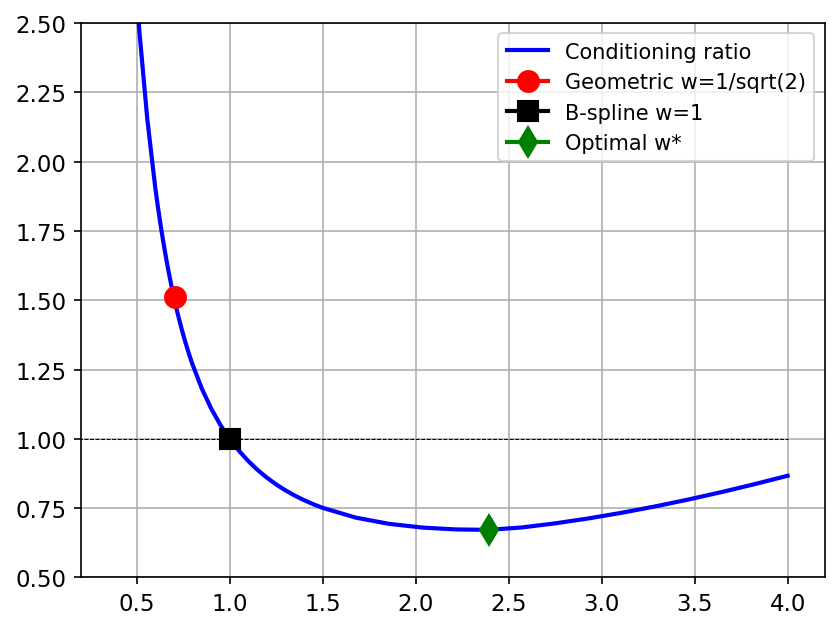
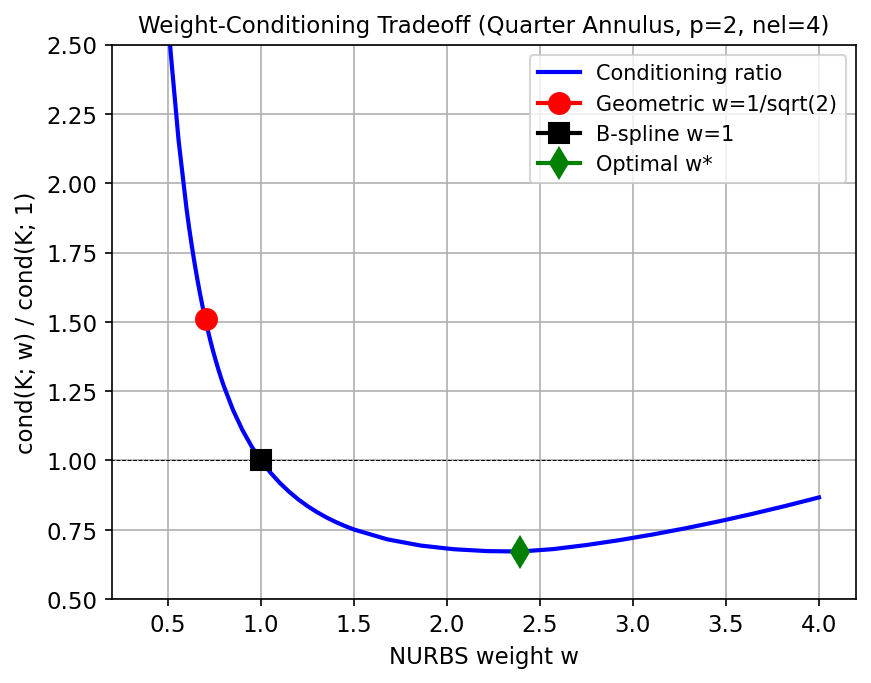
R82: Publication-quality thesis figures + plotting fixes
- title/xlabel/ylabel: Handle MATLAB keyword args (FontSize, Color, etc.)
- legend: Correct handle-label ordering for mixed bar/line plots
- legend: Extract MATLAB Location keyword from positional args
- set(gca): Apply FontSize to title, labels, and tick labels
- bar(): Full MATLAB calling convention (x, y, width, color)
- xlim/ylim: Accept array form [lo hi]
- text(): Support keyword args (FontSize, Color, Rotation, etc.)
- All 4 thesis figures now render with correct titles, labels, legends

Changed region(s): [[0.0, 0.0, 0.9917, 0.9952]]

diff --git a/forge/engine/builtins/plotting.py b/forge/engine/builtins/plotting.py
@@ -712,28 +712,102 @@ def forge_sombrero(*args):
 # Formatting
 # ===================================================================
 
-def forge_title(t: str):
-    _cur_ax().set_title(str(t))
+
+def _parse_text_kwargs(args):
+    """Extract MATLAB-style keyword pairs from args list.
+    Returns (text_string, matplotlib_kwargs)."""
+    from forge.engine.containers import ForgeChar
+    from forge.engine.types import ForgeArray
+
+    text = None
+    kw = {}
+    i = 0
+    while i < len(args):
+        a = args[i]
+        # First non-keyword arg is the text
+        if text is None:
+            if isinstance(a, ForgeChar):
+                text = a.to_str()
+            elif hasattr(a, 'to_str'):
+                text = a.to_str()
+            else:
+                text = str(a)
+            i += 1
+            continue
+        # Remaining: check for keyword pairs
+        if isinstance(a, (str, ForgeChar)):
+            key = a.to_str() if isinstance(a, ForgeChar) else a
+            if key.lower() in ("fontsize", "fontweight", "fontname", "color",
+                               "horizontalalignment", "verticalalignment",
+                               "interpreter", "rotation") and i + 1 < len(args):
+                val = args[i + 1]
+                if isinstance(val, ForgeChar):
+                    val = val.to_str()
+                elif hasattr(val, 'to_str'):
+                    val = val.to_str()
+                elif isinstance(val, ForgeArray):
+                    val = float(val.data.flat[0])
+                kw[key.lower()] = val
+                i += 2
+                continue
+        i += 1
+    return text or "", kw
+
+def forge_title(*args):
+    """title(str) or title(str, 'FontSize', 14, ...)."""
+    text, kw = _parse_text_kwargs(args)
+    # Map to matplotlib kwargs
+    mpl_kw = {}
+    if "fontsize" in kw:
+        mpl_kw["fontsize"] = kw["fontsize"]
+    if "fontweight" in kw:
+        mpl_kw["fontweight"] = kw["fontweight"]
+    if "color" in kw:
+        mpl_kw["color"] = kw["color"]
+    _cur_ax().set_title(text, **mpl_kw)
     plt.draw()
     plt.pause(0.01)
 
 
-def forge_xlabel(label: str):
-    _cur_ax().set_xlabel(str(label))
+def forge_xlabel(*args):
+    """xlabel(str) or xlabel(str, 'FontSize', 12, ...)."""
+    text, kw = _parse_text_kwargs(args)
+    mpl_kw = {}
+    if "fontsize" in kw:
+        mpl_kw["fontsize"] = kw["fontsize"]
+    if "fontweight" in kw:
+        mpl_kw["fontweight"] = kw["fontweight"]
+    if "color" in kw:
+        mpl_kw["color"] = kw["color"]
+    _cur_ax().set_xlabel(text, **mpl_kw)
     plt.draw()
     plt.pause(0.01)
 
 
-def forge_ylabel(label: str):
-    _cur_ax().set_ylabel(str(label))
+def forge_ylabel(*args):
+    """ylabel(str) or ylabel(str, 'FontSize', 12, ...)."""
+    text, kw = _parse_text_kwargs(args)
+    mpl_kw = {}
+    if "fontsize" in kw:
+        mpl_kw["fontsize"] = kw["fontsize"]
+    if "fontweight" in kw:
+        mpl_kw["fontweight"] = kw["fontweight"]
+    if "color" in kw:
+        mpl_kw["color"] = kw["color"]
+    _cur_ax().set_ylabel(text, **mpl_kw)
     plt.draw()
     plt.pause(0.01)
 
 
-def forge_zlabel(label: str):
+def forge_zlabel(*args):
+    """zlabel(str) or zlabel(str, 'FontSize', 12, ...)."""
+    text, kw = _parse_text_kwargs(args)
     ax = _cur_ax()
     if hasattr(ax, "set_zlabel"):
-        ax.set_zlabel(str(label))
+        mpl_kw = {}
+        if "fontsize" in kw:
+            mpl_kw["fontsize"] = kw["fontsize"]
+        ax.set_zlabel(text, **mpl_kw)
     plt.draw()
     plt.pause(0.01)
 
@@ -784,10 +858,33 @@ def forge_legend(*args, **kwargs):
             else:
                 labels.append(str(str_args[i]))
             i += 1
+    ax = _cur_ax()
     if labels:
-        _cur_ax().legend(labels, **kwargs)
+        # Collect all plottable handles in creation order
+        from matplotlib.container import BarContainer
+        from matplotlib.lines import Line2D
+        from matplotlib.collections import PathCollection
+        handles = []
+        # First: bar containers (in order)
+        for c in ax.containers:
+            if isinstance(c, BarContainer):
+                handles.append(c)
+        # Then: lines and collections
+        for artist in ax.get_children():
+            if isinstance(artist, Line2D) and not artist.get_label().startswith('_'):
+                handles.append(artist)
+            elif isinstance(artist, PathCollection):
+                handles.append(artist)
+        # Also check for unlabeled lines (created by plot())
+        for line in ax.lines:
+            if line not in handles:
+                handles.append(line)
+        if len(labels) <= len(handles):
+            ax.legend(handles[:len(labels)], labels, **kwargs)
+        else:
+            ax.legend(labels, **kwargs)
     else:
-        _cur_ax().legend(**kwargs)
+        ax.legend(**kwargs)
     plt.draw()
     plt.pause(0.01)
 
